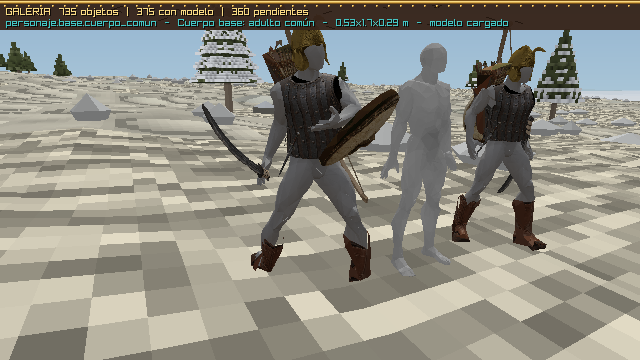
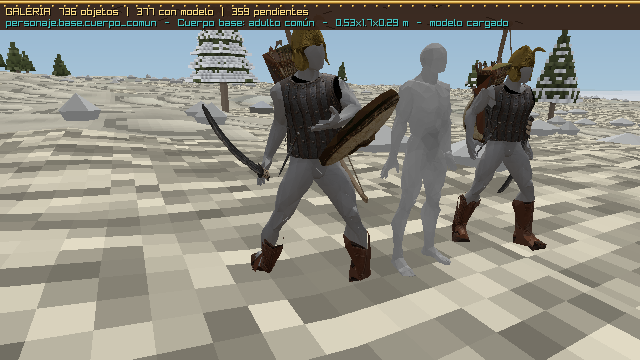
v0.17.3: los animales de Better animals y el jinete en la silla (versión, notas y capturas)
VERSION 0.17.3; su apartado en el README, su línea en el ROADMAP y en la guía, y las notas de la release. Capturas: el título (la versión), la galería y el equipo (dos objetos más en la galería), los jinetes bandidos en la silla y una nueva, el jugador a caballo de lado (jinete.png, en tools/capturas.sh y docs/CAPTURAS.md).

Claude-Session: https://claude.ai/code/session_01LSTD6iWnn2bnoyhKZ9wkd2

diff --git a/docs/ROADMAP.md b/docs/ROADMAP.md
@@ -107,6 +107,7 @@ Decisión: el port de Android replica la experiencia de PC y se juega con **tecl
 - [x] Los asentamientos antiguos (v0.14.0): los vestigios de pueblos de otros tiempos (`src/sim/ancient.c`: un palacio con su patio y casas de dos a cinco cuartos separadas por calles), con los muros casi a ras del suelo y unos tramos de pie (el muro en ruinas del inventario); de uno a tres por región, agregados al final de los sitios (las partidas viejas valen).
 - [x] La cámara cerca, `F` y `Enter` (v0.14.0): la cámara de serie, detrás y a la altura de la cabeza (`src/sim/camview.c`, con su encuadre en las pruebas), y `N` para la media y la lejana; no se mete en las yurtas, las obras ni los edificios de voxeles (sube por encima o se acerca). `F` para las cosas y `Enter` para hablar y comerciar. Sin la columna de acciones del HUD: beber va en la casilla del odre y las hierbas en `B`. El arma, en la mano.
 - [x] El paisaje de voxeles (v0.14.1): los árboles del mundo con sus `.vox` (`src/world/trees.c`: el pino, el sauce junto al agua y el arce del bosque, `flora_tree_kind`), con tres detalles según la distancia (`vox_downsample`) y sus estaciones (`flora_tree_season`: el arce rojo y el sauce amarillo en otoño, pelados al caer la hoja, los pinos nevados); más hierbas en la estepa (el ajenjo, el tomillo y la salvia, `FLORA_HERB`) y más pasto en el bosque; sin cajas junto a los campamentos (la hierba alta, las hierbas curativas y el arbusto con las hojas de la vegetación; las rocas, el pedernal, las piedras, el barro, la leña, el caldero, el odre y el coral, de voxeles); los carros a la escala de la gente; la carreta-casa de las tribus, rehecha.
+- [x] Los animales de *Better animals* y el jinete en la silla (v0.17.3): 17 mallas nuevas (los caballos, los burros, los camellos, el elefante, el buey, la vaca, el perro pastor, el lobo, el oso, la hiena, el zorro y la gacela, en `arte/fuentes/animales/mejores`) con el esqueleto y los clips del caballo o la hiena de referencia del usuario (`tools/modelos/rigs.py`: las marcas de las dos mallas, un warp de placas delgadas, los pesos de la referencia alisados y los clips tal cual); pastar con el cuello bajado hasta el suelo, sin abrir las patas (`cabeza_al_suelo`); la silla de la referencia del jinete (`tools/modelos/jinete.py`) en el hueso `asiento` de cada montura, y el jinete con la pelvis en él, los pies en los estribos (IK) y las manos en las riendas; los jinetes enemigos, igual, en la silla del caballo estepario (`draw_enemy_mount`).
 - [x] Los cascos donde los colocó el usuario (v0.17.2): los siete de `IMPORTED/References 3d` en su lugar exacto (`arte/fuentes/patron/cascos_colocados.glb`, `patron.py referencias`), agrandados lo justo donde asoma la cabeza del juego, que tiene menos resolución; el del culto, con la regla que sale de ellos (`calzar_casco`: de frente por su simetría, el fondo estirado hasta que la banda quede pareja, el borde 6 mm sobre las cejas y la escala menor con la que se apoya); la cabeza de cada cuerpo escalada por eje (`GEAR_HEAD`) y el mismo apoyo en cada una (`GEAR_HELMET_FIT`); los triángulos de cada casco, el mínimo que no lo deforma (1.400 a 3.400).
 - [x] El equipo de los humanoides (v0.17.1): el patrón del usuario (`arte/fuentes/patron/model_equipped_01.glb`) como referencia exacta (`tools/modelos/patron.py`); las corazas y las botas con piel, una variante por cuerpo (`props_draw_worn`); el casco, las armas, los escudos, la aljaba y la antorcha en 9 anclajes por cuerpo (`src/world/anclajes.inc`, `props_draw_socket`), guardados o empuñados (`ga_draw_gear`); los cascos calzados por su cúpula sobre el cráneo, a 2–5 mm y con la escala de cada uno en cada cabeza (`GEAR_HELMET_FIT`; lo verifica `patron.py cascos`); el shader de modelos (`src/world/model_light.c`, GLSL 330 y ES 100); más triángulos en los cuerpos (2.400 a 4.000) y en el equipo (los cascos, 1.800).
 - [x] El mar y las transiciones (v0.17.0): el mar es lo que se alcanza desde mar abierto bajo el nivel del mar (`World.ocean`, sin zanjas secas abiertas al mar ni mar en pozos sin entrada); el canal del bosque llega al mar a su nivel; una sola regla para lo de tierra bajo el nivel del mar (`world_submerged`); el arrecife con pasto marino y algas (`FLORA_SEAGRASS`, `FLORA_KELP`) y el mar hondo opaco como una niebla (`sea_tint`); la transición al desierto, seca (`flora_arid`: pasto y suelo pajizos, sin flores ni helechos, árboles secos o muertos), y la del bosque, en manchas (`world_region_weights_soft`). Los lugares, con el agua de antes (`World.water_v16`).

diff --git a/tools/release/notas.md b/tools/release/notas.md
@@ -1,6 +1,14 @@
 Versión @VERSION@ de **SCAVENGERS THRIVE — THEY COME FROM THE STEPPES**: la tribu acampa en la estepa central de un mundo de cinco regiones que cambia en cada partida nueva.
 
-## Novedades: los cascos, donde los puso el usuario
+## Novedades: los animales nuevos y el jinete en la silla
+
+- **Diecisiete animales nuevos:** los caballos, los burros, los camellos, el elefante, el buey, la vaca, el perro pastor, el lobo, el oso, la hiena, el zorro y la gacela tienen cuerpos nuevos, con el esqueleto y las animaciones de un caballo y de una hiena animados a mano.
+- **Pastan como deben:** bajan el cuello hasta que la boca toca el pasto, sin abrir las patas de adelante.
+- **La silla de montar:** cada montura lleva una silla de cuero con estribos, donde va en un caballo de verdad: detrás de la cruz, en el medio del lomo. En el camello bactriano, entre las dos gibas.
+- **El jinete, sentado:** ya no flota sobre la montura. Va sentado en la silla, con los pies en los estribos y las manos en las riendas, y sube y baja con el lomo del animal al paso, al trote y al galope. La cámara sigue su altura, también sobre el elefante.
+- **Los bandidos a caballo,** también: montan caballos de verdad, ensillados, y van sentados como tú.
+
+## De la v0.17.2: los cascos, donde los puso el usuario
 
 - **Cada casco en su lugar:** siete de los ocho cascos van exactamente donde el usuario los colocó a mano sobre el cuerpo: derechos, apoyados en la cabeza y con el borde unos milímetros sobre las cejas. El gorro de fieltro ya no flota: queda ceñido, con las orejeras sobre las orejas.
 - **El casco del culto,** que no tenía referencia, se calza con la regla que sale de los otros siete.
@@ -127,7 +135,7 @@ Cada boca de cueva se puso junto a cuatro imágenes de referencia y se cambió l
 
 Sigue lo de la v0.14.4 (cada cueva por dentro como sus referencias), la v0.14.3 (las cuevas por dentro según su tipo), la v0.14.2 (los bordes del mundo), la v0.14.1 (los árboles de voxeles, más hierbas y pasto, los carros a escala) y la v0.14.0 (la cámara cerca con `N`, `F` para las cosas y `Enter` para la gente, los asentamientos antiguos, las estructuras de voxeles, las cuevas grandes y los controles de combate).
 
-Las partidas de antes cargan igual: lo que ya estaba en el mundo queda en su lugar. El detalle, en el [README](https://github.com/amaturanas-sys/Scavenger/blob/v@VERSION@/README.md#controles) (en «Controles», los apartados de la v0.17.2, la v0.17.1 y la v0.17.0).
+Las partidas de antes cargan igual: lo que ya estaba en el mundo queda en su lugar. El detalle, en el [README](https://github.com/amaturanas-sys/Scavenger/blob/v@VERSION@/README.md#controles) (en «Controles», los apartados de la v0.17.3, la v0.17.2 y la v0.17.1).
 
 ## Android
 

diff --git a/README.md b/README.md
@@ -264,6 +264,25 @@ El objetivo con Ctrl+Q y Ctrl+E (v0.10.5): en combate, `Ctrl+Q` pasa al enemigo 
 
 Personajes con equipamiento, sin conectar (v0.10.8): `src/entities/` tiene la base de un sistema de personajes 3D con piezas de armadura en los huesos y texturas por material. Nada del juego lo usa todavía: espera los cuerpos riggeados y los modelos de cada pieza (ver `docs/ARQUITECTURA.md`).
 
+Los animales de *Better animals* y el jinete en la silla (v0.17.3): las mallas y los rigs que subió el usuario a
+`IMPORTED/Better animals/Modelos`, y su referencia del jinete (`IMPORTED/References 3d`).
+- **17 modelos nuevos:** los cuatro caballos, los dos burros, el camello bactriano, el dromedario, el elefante, el buey,
+  la vaca, el perro pastor, el lobo, el oso, la hiena, el zorro y la gacela (`arte/fuentes/animales/mejores`). Cada uno
+  lleva el esqueleto y los clips del caballo o de la hiena de referencia (`arte/fuentes/animales/rigs`), llevados a su
+  cuerpo (`tools/modelos/rigs.py`).
+- **Pastar:** el cuello baja hasta que la boca toca el suelo, sin abrir las patas de adelante.
+- **La silla de montar:** la de la referencia, con sus estribos. Va donde la referencia la pone: a un 64 % del camino
+  de las patas de atrás a las de adelante (`tools/modelos/jinete.py`). Cada montura lleva su hueso `asiento`; en el
+  camello bactriano, entre las gibas.
+- **El jinete, sentado en ella:**
+  - la pelvis en el asiento, que sube y baja con el lomo en cada clip;
+  - los pies en los estribos y las manos adelante, en las riendas;
+  - la cámara sigue la altura del asiento (en el elefante, más arriba).
+- **Los jinetes bandidos, también:** montan el caballo estepario con su silla (antes, uno de cápsulas), al paso, al
+  trote o al galope según su velocidad, y van sentados como el jugador.
+
+Pruebas: `--montado quieto --giro-camara 90` (quieto y de lado) y `--enemigos jinetes`.
+
 Los cascos donde los colocó el usuario (v0.17.2): siete cascos, colocados a mano sobre el cuerpo
 (`IMPORTED/References 3d`, pasados a `arte/fuentes/patron/cascos_colocados.glb`), van en el juego en el lugar exacto
 (`tools/modelos/patron.py`; el patrón y los pasos para un casco nuevo, en `assets/models/README.md`, «Cascos»).

diff --git a/docs/GUIA_IA.md b/docs/GUIA_IA.md
@@ -496,7 +496,9 @@ traba.
     y la del bosque en manchas (v0.17.0);
   - el equipo de los humanoides: el del patrón del usuario, con los cascos calzados sobre el cráneo y el shader de
     modelos (v0.17.1);
-  - los cascos donde los colocó el usuario en sus referencias, y la regla para los que no tienen (v0.17.2).
+  - los cascos donde los colocó el usuario en sus referencias, y la regla para los que no tienen (v0.17.2);
+  - los 17 animales de *Better animals* con los rigs de referencia del usuario, y la silla y el jinete sentado en ella,
+    desde su referencia del jinete, también para los jinetes enemigos (v0.17.3).
 - **En archivo, sin fusionar** (rama `cline/rescate-codespace`):
   - el VAT de Copilot: un renderer y sus shaders sin conectar, sin herramienta que hornee las texturas y
     con modelos vacíos;

diff --git a/docs/CAPTURAS.md b/docs/CAPTURAS.md
@@ -55,7 +55,8 @@ El del patrón del usuario, en el cuerpo común (`assets/models/README.md`, «El
 
 | | |
 |---|---|
-| ![Jinetes](capturas/14_jinetes.png) | **Jinetes bandidos** (`--enemigos jinetes`). |
+| ![Jinetes](capturas/14_jinetes.png) | **Jinetes bandidos** (`--enemigos jinetes`): sentados en la silla de su caballo estepario (v0.17.3). |
+| ![Jinete](capturas/jinete.png) | **A caballo** (`--montado quieto --giro-camara 90`): el jugador sentado en la silla, con los pies en los estribos y las manos en las riendas (v0.17.3). |
 | ![Botín](capturas/15_botin.png) | **Bolsas de botín** (`--botin`). |
 | ![Galería](capturas/16_galeria.png) | **Galería de modelos** (`--galeria`): todos los objetos del inventario a escala. |
 
